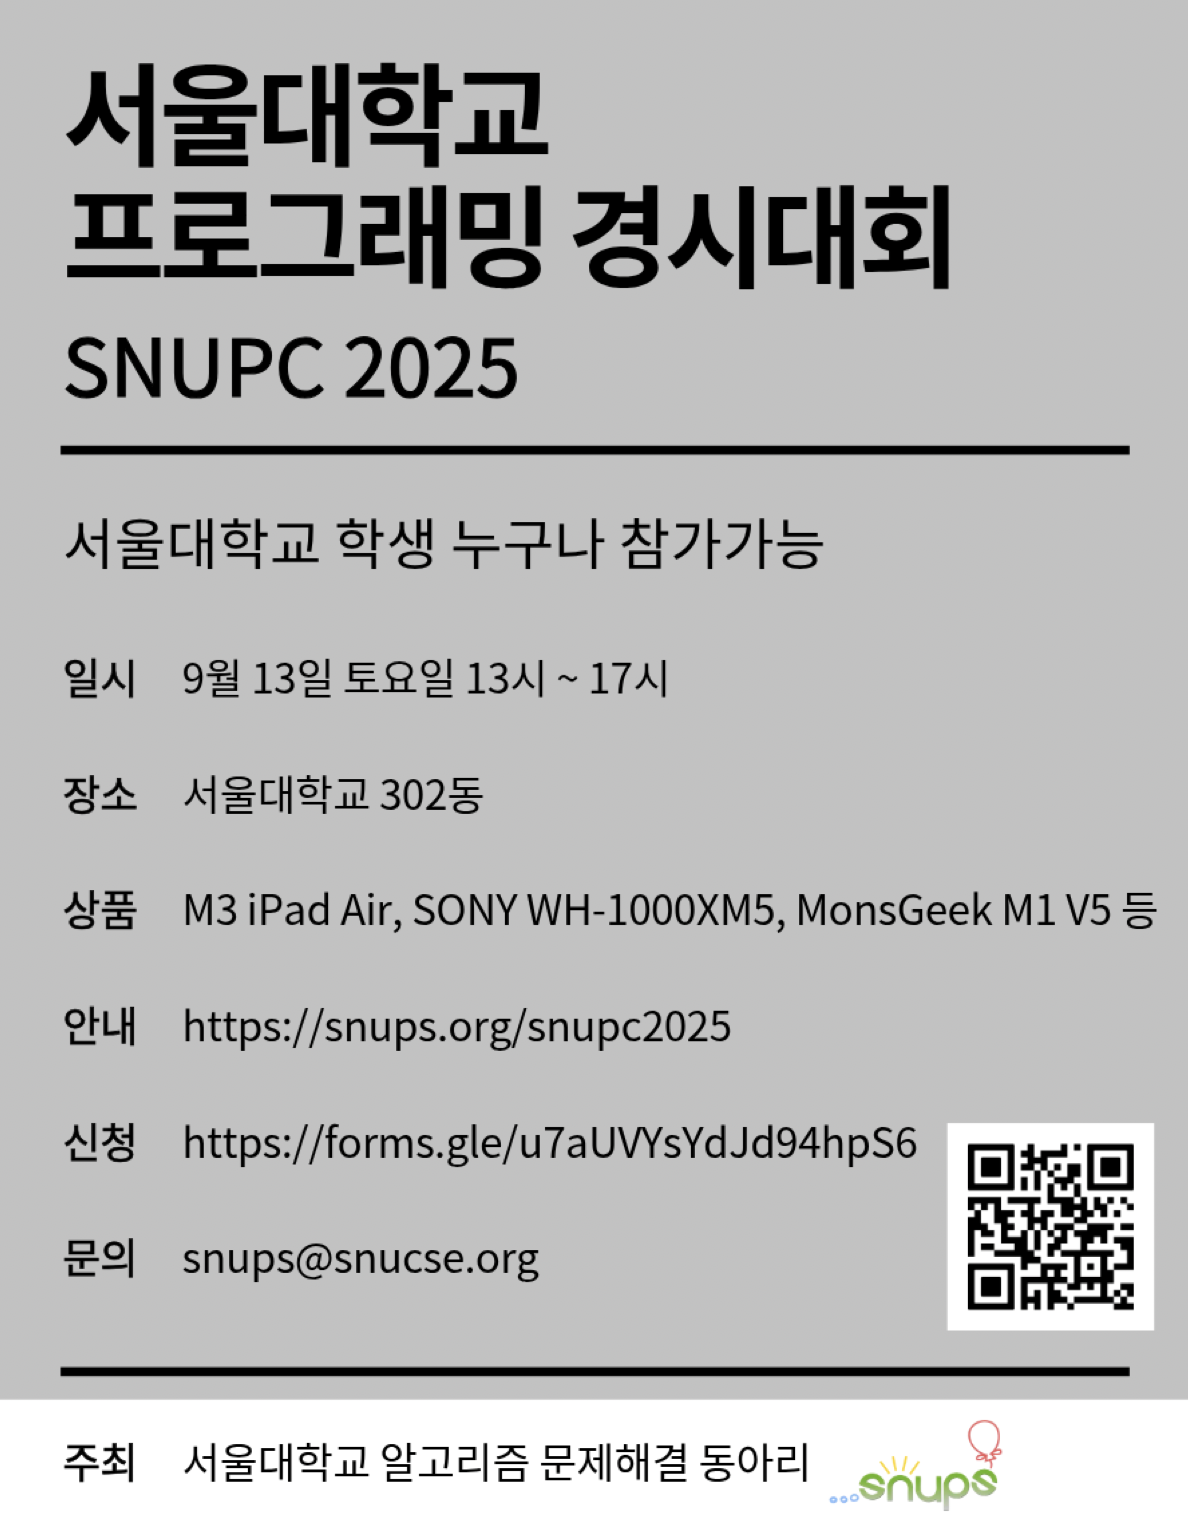
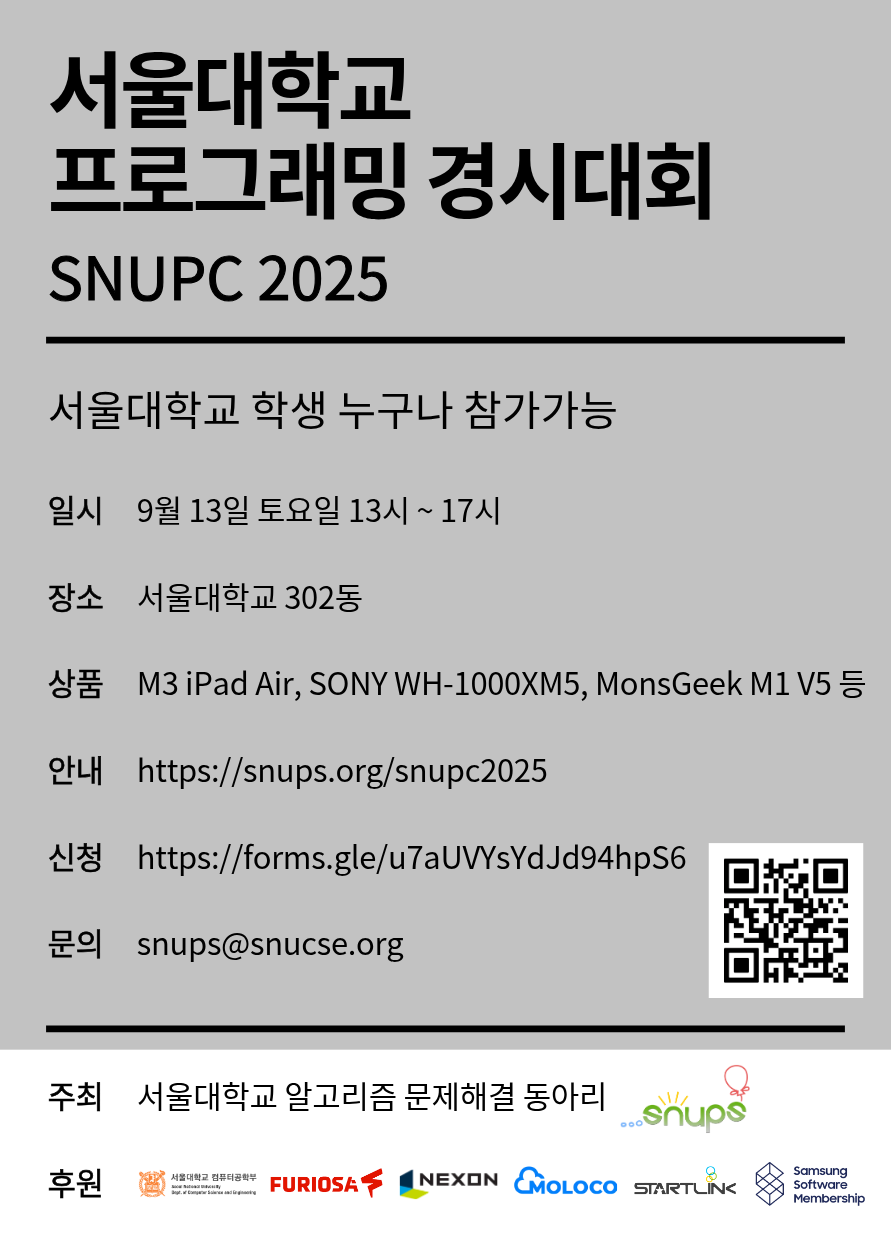
Update SNUPC 2025 poster and sponsor (#30)

diff --git a/_pages/snupc/2025.md b/_pages/snupc/2025.md
@@ -13,6 +13,8 @@ sponsors:
     logo: /assets/img/logo/moloco.png
   - name: NEXON
     logo: /assets/img/logo/nexon.png
+  - name: Samsung Software Membership
+    logo: /assets/img/logo/ssm.png
 infos:
   - name: 풀이
     link: /assets/pdf/snupc2025solution.pdf
@@ -131,4 +133,4 @@ div2infos:
 
 ## [참가 신청](https://forms.gle/3477BGwDZjyFk97E7)
 
-![SNUPC 2025](/assets/img/poster/snupc2025.jpeg){:style="width:600px; max-width:100%;"}
+![SNUPC 2025](/assets/img/poster/snupc2025.png){:style="width:600px; max-width:100%;"}

diff --git a/_pages/snupc/snupc.md b/_pages/snupc/snupc.md
@@ -18,7 +18,7 @@ pretty_table: true
 ---
 
 ## SNUPC 2025 [공지](/snupc2025/) 및 [신청](https://forms.gle/3477BGwDZjyFk97E7)
-![SNUPC 2025](/assets/img/poster/snupc2025.jpeg){:style="width:600px; max-width:100%;"}
+![SNUPC 2025](/assets/img/poster/snupc2025.png){:style="width:600px; max-width:100%;"}
 
 ---
 
